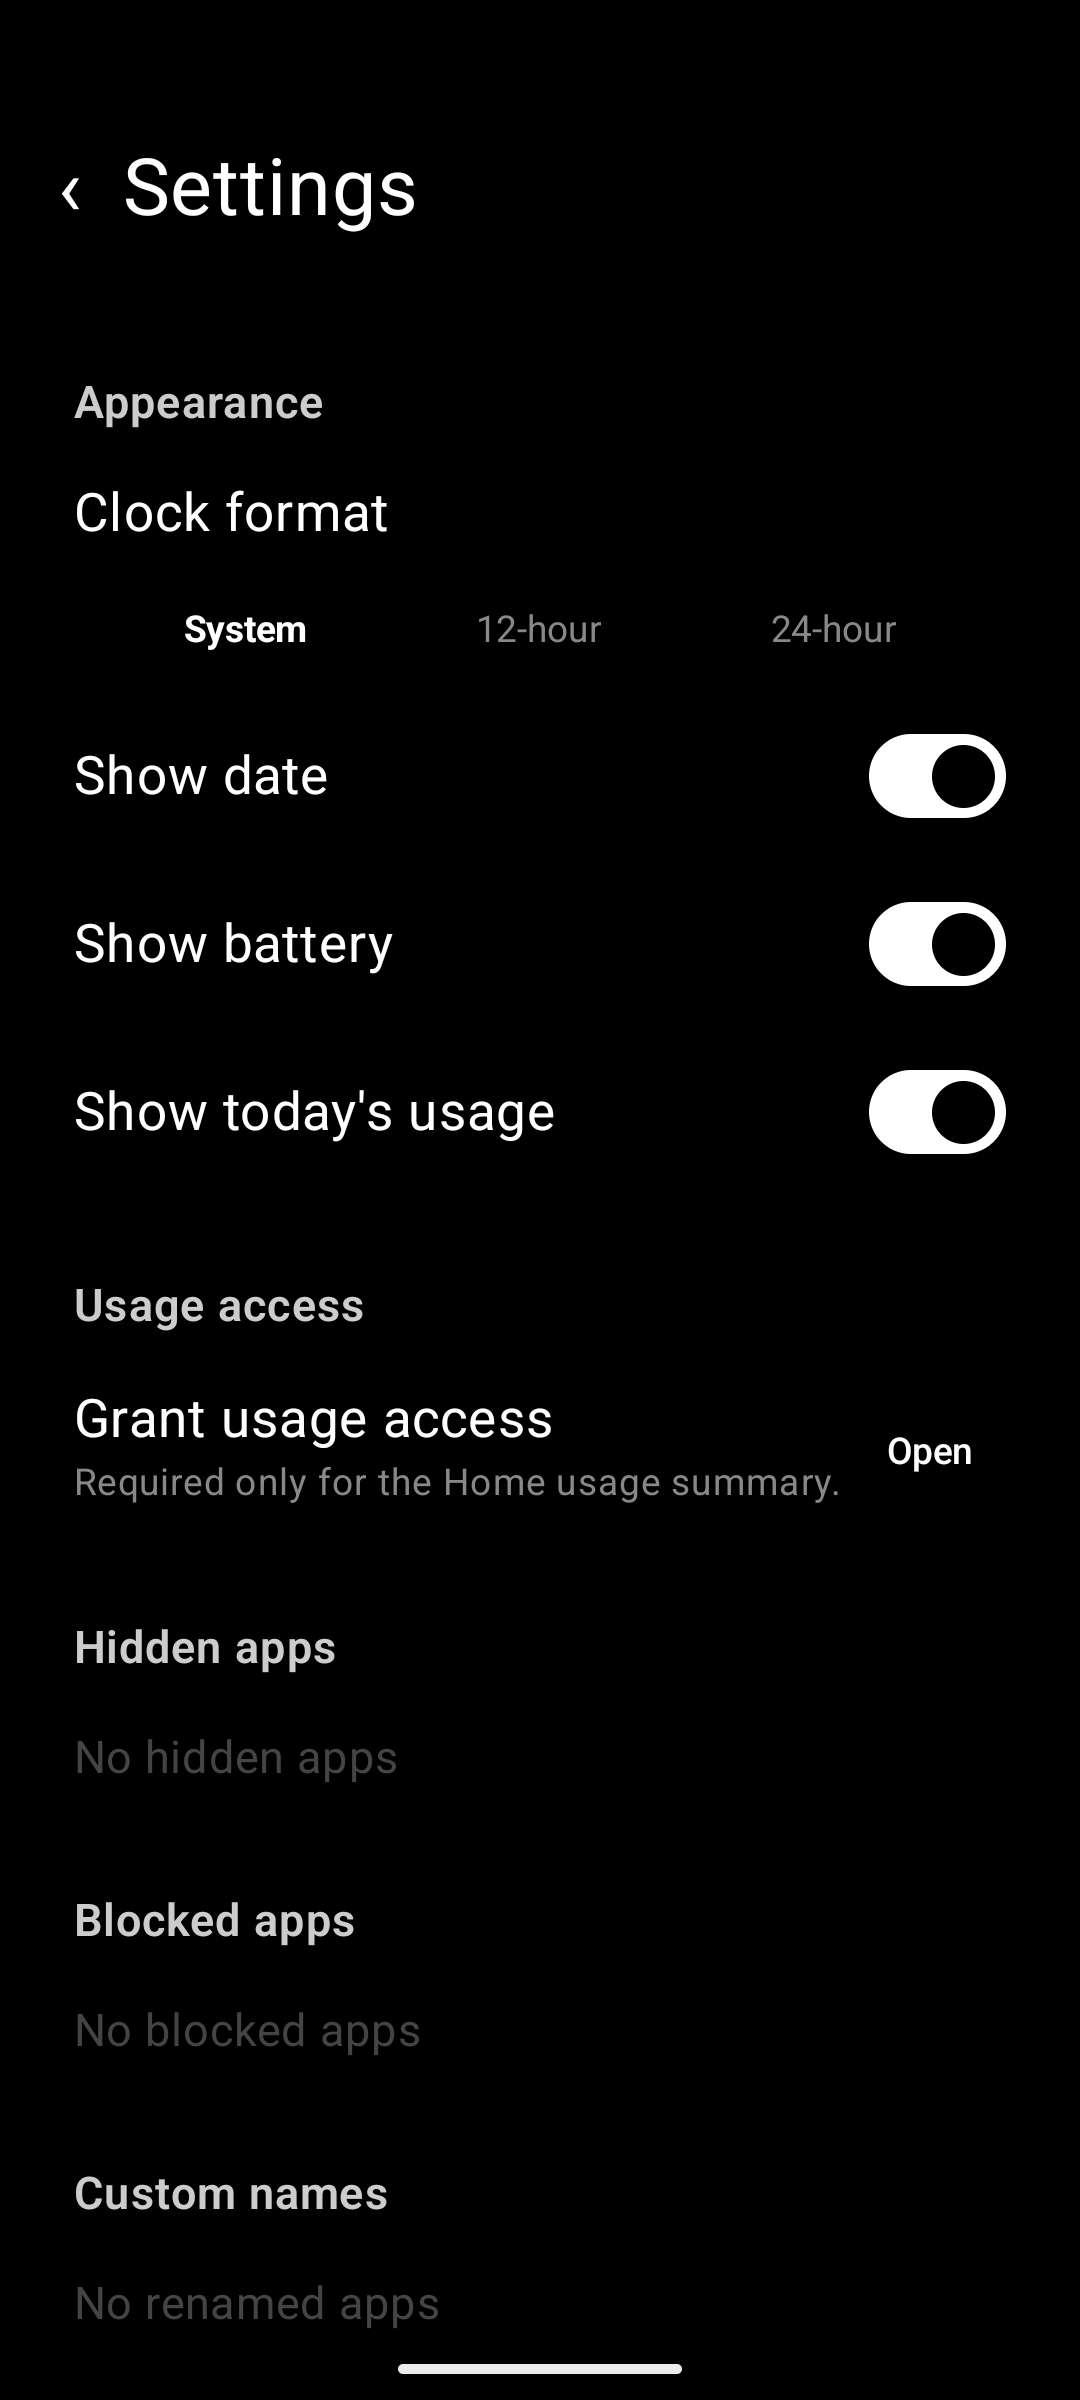
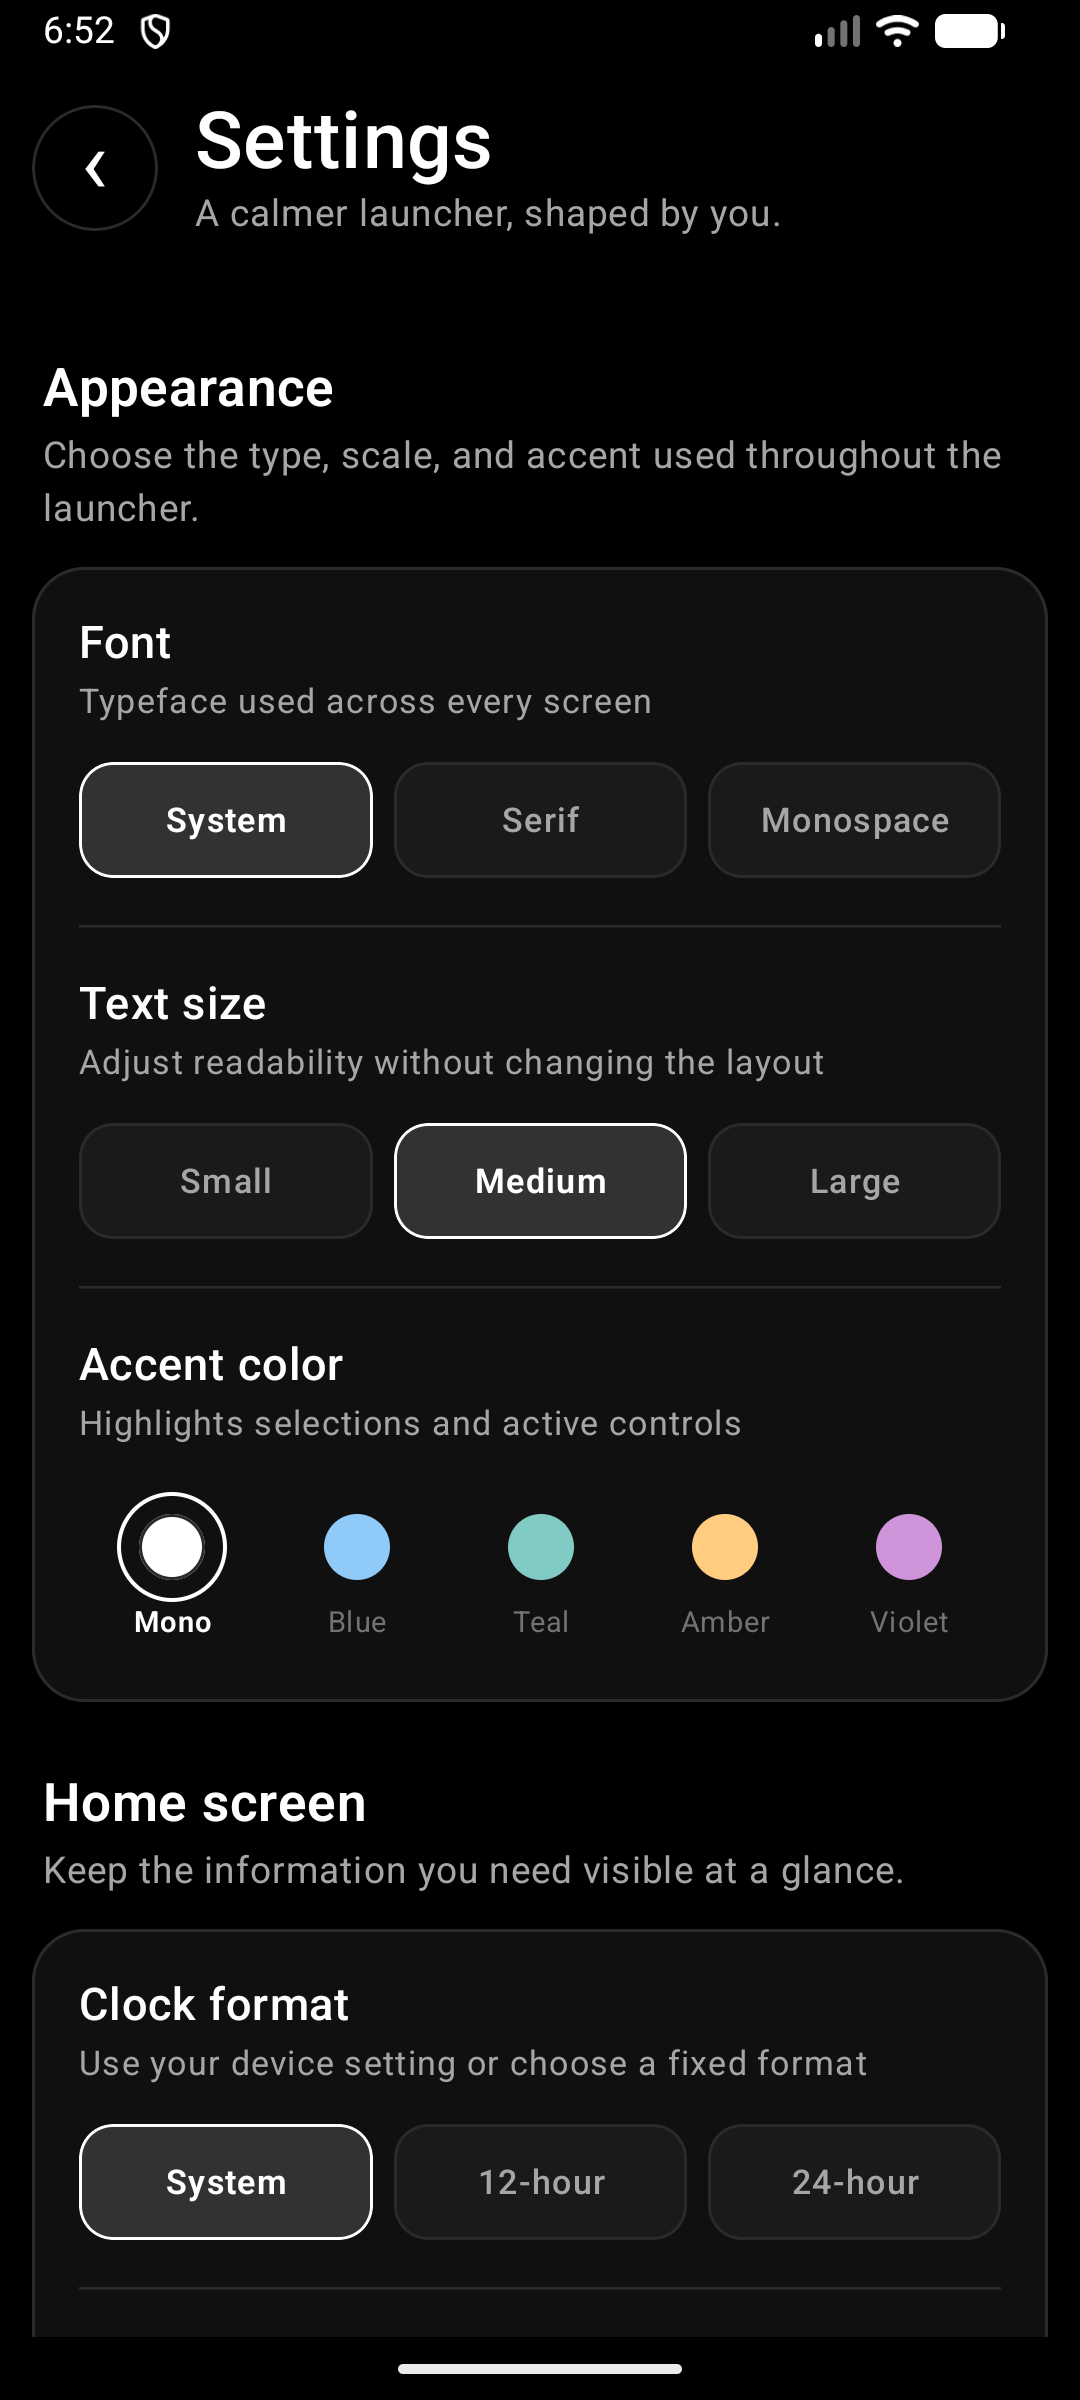
feat: add architecture documentation for launcher

diff --git a/docs/architecture.md b/docs/architecture.md
@@ -1,0 +1,56 @@
+# Architecture
+
+The launcher uses one activity and a state-driven Jetpack Compose UI. The
+implementation is deliberately small: platform access and persistence live in
+`data/`, while screen rendering and user actions live in `ui/`.
+
+## State flow
+
+```text
+PackageManager / UsageStats
+          |             |
+          v             v
+    repositories --> LauncherViewModel <--> DataStore preferences
+                            |
+                            v
+                    LauncherUiState
+                            |
+                            v
+                  Compose launcher screens
+```
+
+`LauncherViewModel` loads a cached app list first, refreshes launchable
+activities from `PackageManager`, reconciles removed package references, and
+publishes a single `LauncherUiState`. `LauncherUiStateMapper` derives the
+visible drawer, Home items, folders, favorites, and search results from the
+installed apps plus persisted preferences.
+
+## Persistence
+
+- `DataStoreLauncherPreferencesRepository` stores Home order, custom labels,
+  hidden and blocked app IDs, folders, folder membership, and appearance
+  settings.
+- Home items use typed references (`app:<id>` and `folder:<id>`), so a folder
+  and an app cannot collide in the persisted order.
+- The package manager repository keeps a small SharedPreferences cache so the
+  launcher can render the last known app list while a refresh is in progress.
+- Invalid or removed references are ignored or reconciled during refresh.
+
+## Platform boundaries
+
+The manifest declares `PACKAGE_USAGE_STATS` for the optional daily summary and
+`REQUEST_DELETE_PACKAGES` for the Android uninstall confirmation flow. The
+launcher queries launchable activities through the package manager and opens
+Android settings for Usage Access and app details. It does not request
+`INTERNET`.
+
+Blocking is local to Minimal Launcher: a blocked app remains installed and is
+not launched through this UI. Hidden apps are also still installed and can be
+restored from Settings.
+
+## Tests
+
+Pure reducers, codecs, mappers, usage calculations, and ViewModel behavior are
+covered by JVM tests. Compose gestures, semantics, package refresh behavior,
+and device integrations belong in `androidTest` and run against a connected
+emulator or device.
